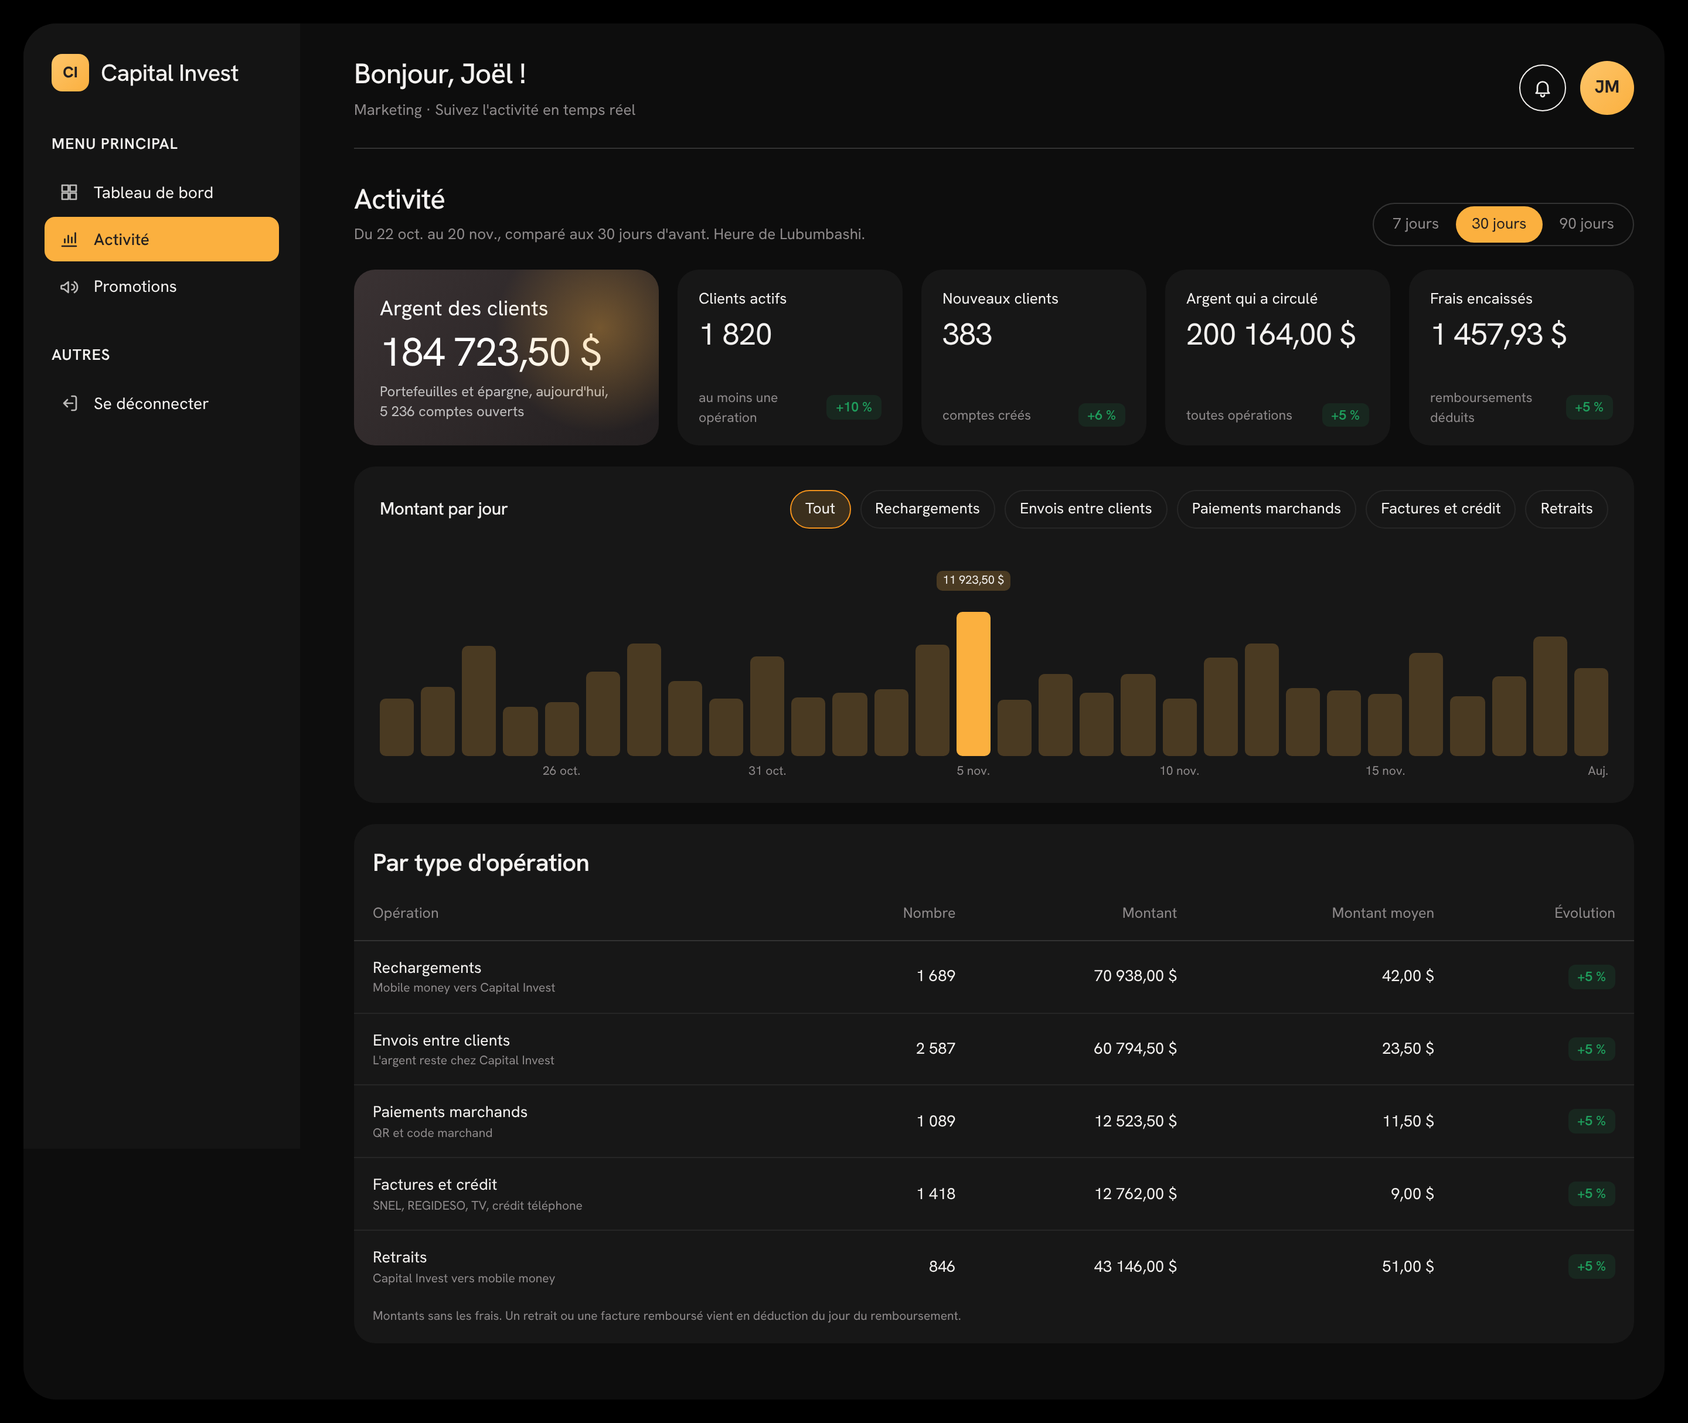
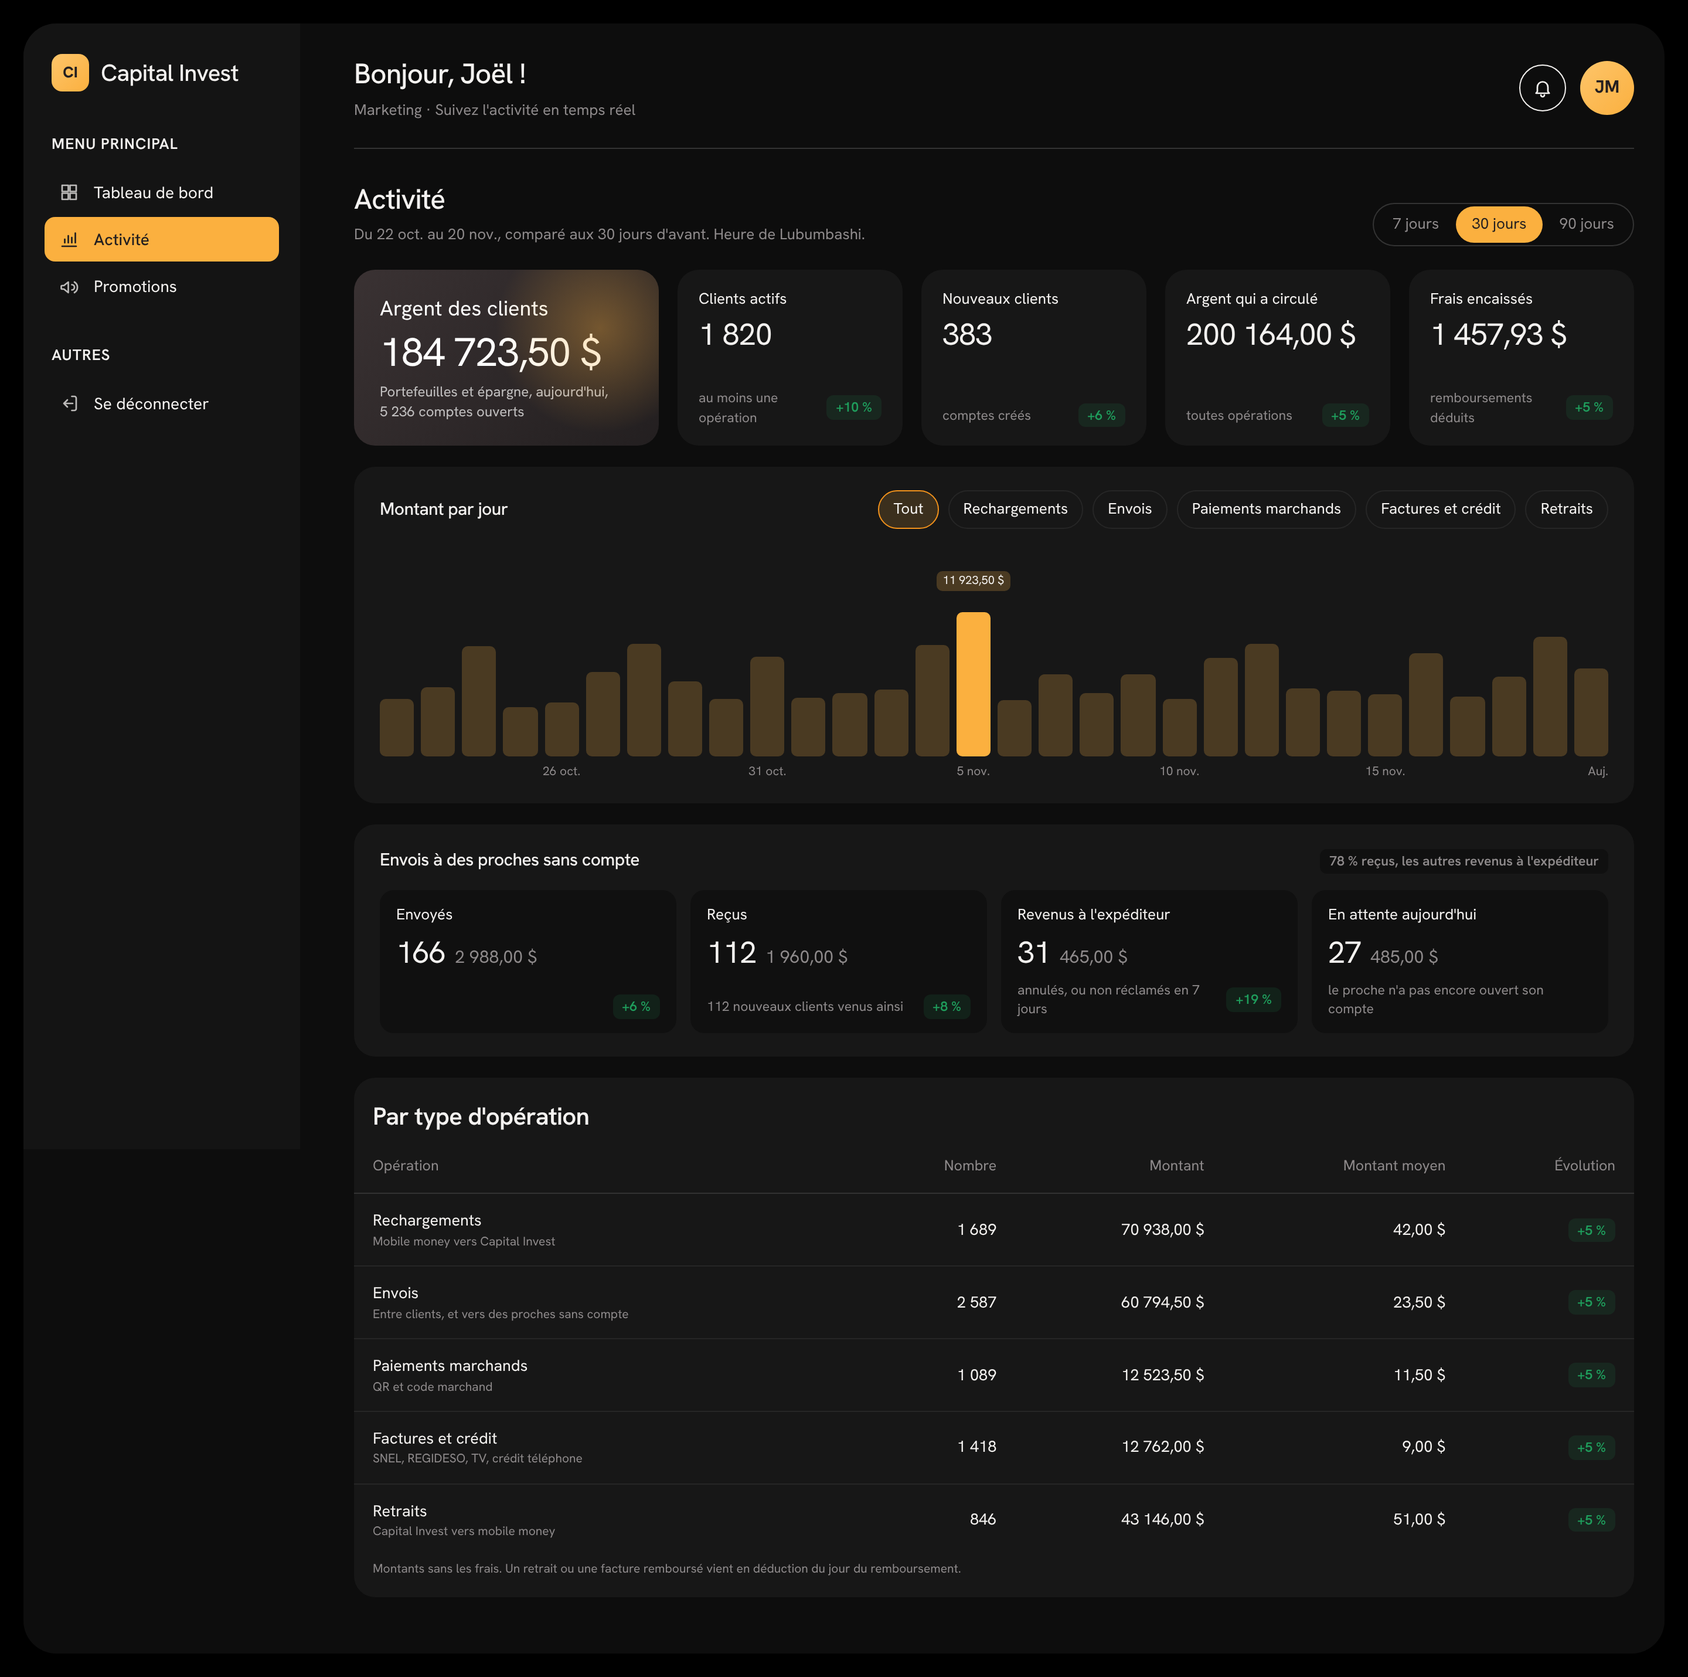
Activité : envois à des proches sans compte (envoyés, reçus, revenus, en attente)

diff --git a/backend/src/main/kotlin/cd/capitalinvest/platform/backoffice/Activity.kt b/backend/src/main/kotlin/cd/capitalinvest/platform/backoffice/Activity.kt
@@ -31,6 +31,10 @@ data class ActivityDay(
     val billsAndAirtime: Flow,
     /** Frais et commissions encaissés, remboursements de frais déduits. */
     val feesMinor: Long,
+    /** Envois à un proche sans compte : partis, reçus par le proche à l'ouverture de son compte, revenus à l'expéditeur. */
+    val invitesSent: Flow,
+    val invitesClaimed: Flow,
+    val invitesRefunded: Flow,
 )
 
 data class ActivityTotals(
@@ -42,6 +46,9 @@ data class ActivityTotals(
     val merchantPayments: Flow,
     val billsAndAirtime: Flow,
     val feesMinor: Long,
+    val invitesSent: Flow,
+    val invitesClaimed: Flow,
+    val invitesRefunded: Flow,
 )
 
 data class Activity(
@@ -54,6 +61,8 @@ data class Activity(
     /** Aujourd'hui : clients actifs (ni suspendus ni fermés), et argent qu'ils ont chez Capital Invest. */
     val customersActive: Long,
     val customerHoldingsMinor: Long,
+    /** Aujourd'hui : envois qui attendent qu'un proche ouvre son compte. */
+    val pendingInvites: Flow,
 )
 
 /**
@@ -97,6 +106,8 @@ class ActivityService(private val jdbc: JdbcClient, private val limits: LimitsPr
                    FROM ledger_entry e JOIN ledger_account a ON a.id = e.account_id
                    WHERE a.type IN ('CUSTOMER_WALLET', 'CUSTOMER_SAVINGS') AND a.currency = 'USD'""",
             ).query(Long::class.java).single(),
+            pendingInvites = jdbc.sql("SELECT count(*) AS n, COALESCE(SUM(amount_minor), 0) AS a FROM pending_transfer WHERE status = 'PENDING'")
+                .query { rs, _ -> Flow(rs.getLong("n"), rs.getLong("a")) }.single(),
         )
     }
 
@@ -131,17 +142,23 @@ class ActivityService(private val jdbc: JdbcClient, private val limits: LimitsPr
             val back = rows.filter { it.type in refunds }
             return Flow(out.sumOf { it.count }, out.sumOf(amount) - back.sumOf { it.walletIn + it.fees })
         }
+        // Montant parti du portefeuille, frais déduits.
+        val sent: (Row) -> Long = { it.walletOut - it.fees }
         return ActivityDay(
             date = d,
             newCustomers = newCustomers,
             activeCustomers = active,
             topups = flow(listOf("TOPUP"), emptyList()) { it.walletIn },
-            transfers = flow(listOf("TRANSFER"), emptyList()) { it.walletIn },
+            // Entre clients : reçu par le destinataire ; vers un proche sans compte : parti de l'expéditeur, remboursements déduits.
+            transfers = flow(listOf("TRANSFER", "TRANSFER_INVITE"), listOf("TRANSFER_INVITE_REFUND")) { if (it.type == "TRANSFER") it.walletIn else sent(it) },
             // Montant parti vers l'opérateur : débit du portefeuille moins les frais.
-            withdrawals = flow(listOf("WITHDRAWAL"), listOf("WITHDRAWAL_SETTLED", "WITHDRAWAL_REFUND")) { it.walletOut - it.fees },
+            withdrawals = flow(listOf("WITHDRAWAL"), listOf("WITHDRAWAL_SETTLED", "WITHDRAWAL_REFUND"), sent),
             merchantPayments = flow(listOf("MERCHANT_PAYMENT"), emptyList()) { it.walletOut },
-            billsAndAirtime = flow(listOf("BILL_PAYMENT", "AIRTIME"), listOf("BILL_REFUND", "AIRTIME_REFUND")) { it.walletOut - it.fees },
+            billsAndAirtime = flow(listOf("BILL_PAYMENT", "AIRTIME"), listOf("BILL_REFUND", "AIRTIME_REFUND"), sent),
             feesMinor = rows.sumOf { it.fees },
+            invitesSent = flow(listOf("TRANSFER_INVITE"), emptyList(), sent),
+            invitesClaimed = flow(listOf("TRANSFER_INVITE_CLAIM"), emptyList()) { it.walletIn },
+            invitesRefunded = flow(listOf("TRANSFER_INVITE_REFUND"), emptyList()) { it.walletIn + it.fees },
         )
     }
 
@@ -151,6 +168,7 @@ class ActivityService(private val jdbc: JdbcClient, private val limits: LimitsPr
             days.sumOf { it.newCustomers }, active,
             sum { it.topups }, sum { it.transfers }, sum { it.withdrawals }, sum { it.merchantPayments }, sum { it.billsAndAirtime },
             days.sumOf { it.feesMinor },
+            sum { it.invitesSent }, sum { it.invitesClaimed }, sum { it.invitesRefunded },
         )
     }
 }

diff --git a/backoffice/src/pages/Activity.tsx b/backoffice/src/pages/Activity.tsx
@@ -9,7 +9,7 @@ type Period = (typeof periods)[number]
 /** Les familles d'opérations, dans l'ordre où l'argent circule : il entre, il circule, il sort. */
 const families = [
   { key: 'topups', label: 'Rechargements', hint: 'Mobile money vers Capital Invest' },
-  { key: 'transfers', label: 'Envois entre clients', hint: "L'argent reste chez Capital Invest" },
+  { key: 'transfers', label: 'Envois', hint: 'Entre clients, et vers des proches sans compte' },
   { key: 'merchantPayments', label: 'Paiements marchands', hint: 'QR et code marchand' },
   { key: 'billsAndAirtime', label: 'Factures et crédit', hint: 'SNEL, REGIDESO, TV, crédit téléphone' },
   { key: 'withdrawals', label: 'Retraits', hint: 'Capital Invest vers mobile money' },
@@ -67,6 +67,7 @@ export function ActivityPage({ api }: { api: Api }) {
           <>
             <Overview data={data} />
             <Chart data={data} metric={metric} setMetric={setMetric} />
+            <Invites data={data} />
             <Families totals={data.totals} previous={data.previous} />
           </>
         )}
@@ -182,6 +183,45 @@ function Families({ totals, previous }: { totals: ActivityTotals; previous: Acti
       <p className="tiny" style={{ padding: '4px 16px 16px', margin: 0 }}>
         Montants sans les frais. Un retrait ou une facture remboursé vient en déduction du jour du remboursement.
       </p>
+    </div>
+  )
+}
+
+/** Envois à des proches sans compte : chaque envoi reçu est un client de plus, venu par un client. */
+function Invites({ data }: { data: Activity }) {
+  const t = data.totals
+  const p = data.previous
+  const settled = t.invitesClaimed.count + t.invitesRefunded.count
+  const rate = settled ? Math.round((t.invitesClaimed.count / settled) * 100) : null
+  return (
+    <section className="card pad stack" aria-label="Envois à des proches sans compte">
+      <div className="row" style={{ flexWrap: 'wrap', gap: 8 }}>
+        <h3 style={{ flex: 1, fontWeight: 500, minWidth: 200 }}>Envois à des proches sans compte</h3>
+        {rate !== null && <span className="badge off">{`${rate}\u00a0% reçus, les autres revenus à l'expéditeur`}</span>}
+      </div>
+      <div className="invites">
+        <Mini label="Envoyés" flow={t.invitesSent} before={p.invitesSent} />
+        <Mini label="Reçus" flow={t.invitesClaimed} before={p.invitesClaimed}
+          sub={`${count(t.invitesClaimed.count)} nouveau${t.invitesClaimed.count > 1 ? 'x' : ''} client${t.invitesClaimed.count > 1 ? 's' : ''} venu${t.invitesClaimed.count > 1 ? 's' : ''} ainsi`} />
+        <Mini label="Revenus à l'expéditeur" flow={t.invitesRefunded} before={p.invitesRefunded} sub="annulés, ou non réclamés en 7 jours" />
+        <Mini label="En attente aujourd'hui" flow={data.pendingInvites} sub="le proche n'a pas encore ouvert son compte" />
+      </div>
+    </section>
+  )
+}
+
+function Mini({ label, flow, before, sub }: { label: string; flow: Flow; before?: Flow; sub?: string }) {
+  return (
+    <div className="mini">
+      <div className="lbl">{label}</div>
+      <div className="row" style={{ gap: 8, alignItems: 'baseline' }}>
+        <span className="val">{count(flow.count)}</span>
+        <span className="muted">{formatUsd(flow.amountMinor)}</span>
+      </div>
+      <div className="sub">
+        <span>{sub ?? ' '}</span>
+        {before && <Change now={flow.count} before={before.count} />}
+      </div>
     </div>
   )
 }

diff --git a/backend/src/test/kotlin/cd/capitalinvest/platform/ActivityApiTest.kt b/backend/src/test/kotlin/cd/capitalinvest/platform/ActivityApiTest.kt
@@ -6,6 +6,7 @@ import com.fasterxml.jackson.databind.JsonNode
 import org.junit.jupiter.api.Test
 import org.springframework.beans.factory.annotation.Autowired
 import org.springframework.http.MediaType
+import org.springframework.test.web.servlet.delete
 import org.springframework.test.web.servlet.get
 import org.springframework.test.web.servlet.post
 import kotlin.test.assertEquals
@@ -76,5 +77,42 @@ class ActivityApiTest : ApiTest() {
             mvc.get("/v1/backoffice/activity?days=$d") { header("Authorization", "Bearer $admin") }
                 .andExpect { status { isUnprocessableEntity() }; jsonPath("$.code") { value("INVALID_PERIOD") } }
         }
+    }
+
+    private fun invite(s: Session, phone: String, amountMinor: Long, key: String) = mvc.post("/v1/transfers/pending") {
+        header("Authorization", "Bearer ${s.token}")
+        header("Idempotency-Key", key)
+        contentType = MediaType.APPLICATION_JSON
+        content = """{"toPhone":"$phone","recipientName":"Maman","amountMinor":$amountMinor,"pin":"2580"}"""
+    }.andExpect { status { isCreated() } }.body()["id"].asText()
+
+    @Test
+    fun `envois a un proche sans compte - envoyes, recus, rembourses, en attente`() {
+        val admin = agent(AgentRole.ADMIN)
+        val before = activity(admin)
+        val a = register("+243970001601")
+        topupConfirmed(a, 20_000, "inv-top")
+        invite(a, "+243970001602", 3_000, "inv-1")
+        val cancelled = invite(a, "+243970001603", 2_000, "inv-2")
+        invite(a, "+243970001604", 1_000, "inv-3")
+        mvc.delete("/v1/transfers/pending/$cancelled") { header("Authorization", "Bearer ${a.token}") }.andExpect { status { isOk() } }
+        register("+243970001602") // Le proche ouvre son compte : il reçoit les 30,00 $.
+
+        val now = activity(admin)
+        fun delta(path: String, field: String) = now["totals"][path][field].asLong() - before["totals"][path][field].asLong()
+        assertEquals(3, delta("invitesSent", "count"))
+        assertEquals(6_000, delta("invitesSent", "amountMinor"))
+        assertEquals(1, delta("invitesClaimed", "count"))
+        assertEquals(3_000, delta("invitesClaimed", "amountMinor"))
+        assertEquals(1, delta("invitesRefunded", "count"))
+        assertEquals(2_000, delta("invitesRefunded", "amountMinor"))
+        // Dans les envois : ce qui est parti, moins ce qui est revenu. La réception ne compte pas deux fois.
+        assertEquals(3, delta("transfers", "count"))
+        assertEquals(4_000, delta("transfers", "amountMinor"))
+        assertEquals(true, now["pendingInvites"]["count"].asLong() >= 1)
+        assertEquals(true, now["pendingInvites"]["amountMinor"].asLong() >= 1_000)
+        // Les frais remboursés de l'envoi annulé sont déduits.
+        val spent = 20_000L - balance(a) - 4_000
+        assertEquals(spent, now["totals"]["feesMinor"].asLong() - before["totals"]["feesMinor"].asLong())
     }
 }

diff --git a/backoffice/src/test/fakeServer.ts b/backoffice/src/test/fakeServer.ts
@@ -144,6 +144,7 @@ export class FakeServer {
     }],
   }
   requests: { method: string; path: string; body: unknown }[] = []
+  lastActivity: ReturnType<typeof fakeActivity> | null = null
   documentsViewed: string[] = []
 
   login(role: Role): string {
@@ -388,7 +389,8 @@ export class FakeServer {
     }
     if (path.startsWith('/v1/backoffice/activity')) {
       if (role('KYC_AGENT')) return problem(403, 'ACTIVITY_FORBIDDEN', 'Réservé à la direction, à la conformité et au marketing')
-      return json(fakeActivity(Number(u.searchParams.get('days') ?? 30)))
+      this.lastActivity = fakeActivity(Number(u.searchParams.get('days') ?? 30))
+      return json(this.lastActivity)
     }
     if (/^\/v1\/backoffice\/(reconciliation|topups|withdrawals|purchases|airtime|bills)/.test(path)) {
       if (path === '/v1/backoffice/purchases/review') return json(this.purchases)
@@ -485,11 +487,14 @@ export function fakeActivity(days: number, to = '2026-11-20') {
       merchantPayments: flow(40, 1_150),
       billsAndAirtime: flow(52, 900),
       feesMinor: Math.round(31 * wave) * 102 + Math.round(95 * wave) * 23,
+      invitesSent: flow(6, 1_800),
+      invitesClaimed: flow(4, 1_750),
+      invitesRefunded: flow(1, 1_500),
     }
   }
   const list = (from: number, n: number) => Array.from({ length: n }, (_, i) => day(from + n - 1 - i))
   const total = (l: ReturnType<typeof day>[], active: number) => {
-    const sum = (k: 'topups' | 'transfers' | 'withdrawals' | 'merchantPayments' | 'billsAndAirtime') => ({
+    const sum = (k: 'topups' | 'transfers' | 'withdrawals' | 'merchantPayments' | 'billsAndAirtime' | 'invitesSent' | 'invitesClaimed' | 'invitesRefunded') => ({
       count: l.reduce((s, d) => s + d[k].count, 0),
       amountMinor: l.reduce((s, d) => s + d[k].amountMinor, 0),
     })
@@ -499,6 +504,7 @@ export function fakeActivity(days: number, to = '2026-11-20') {
       topups: sum('topups'), transfers: sum('transfers'), withdrawals: sum('withdrawals'),
       merchantPayments: sum('merchantPayments'), billsAndAirtime: sum('billsAndAirtime'),
       feesMinor: l.reduce((s, d) => s + d.feesMinor, 0),
+      invitesSent: sum('invitesSent'), invitesClaimed: sum('invitesClaimed'), invitesRefunded: sum('invitesRefunded'),
     }
   }
   const current = list(0, days)
@@ -510,5 +516,6 @@ export function fakeActivity(days: number, to = '2026-11-20') {
     previous: total(list(days, days), Math.min(4_400, 240 + days * 47)),
     customersActive: 5_236,
     customerHoldingsMinor: 18_472_350,
+    pendingInvites: { count: 27, amountMinor: 48_500 },
   }
 }

diff --git a/backoffice/src/test/app.test.tsx b/backoffice/src/test/app.test.tsx
@@ -706,7 +706,7 @@ describe('activité', () => {
     expect(screen.getByText(/^Du 22 oct\. au 20 nov\., comparé aux 30 jours/)).toBeInTheDocument()
     const rows = within(screen.getByRole('table')).getAllByRole('row').slice(1)
     expect(rows.map((r) => r.querySelector('td')?.firstChild?.textContent)).toEqual([
-      'Rechargements', 'Envois entre clients', 'Paiements marchands', 'Factures et crédit', 'Retraits',
+      'Rechargements', 'Envois', 'Paiements marchands', 'Factures et crédit', 'Retraits',
     ])
     expect(screen.getByRole('img').getAttribute('aria-label')).toMatch(/^Toutes opérations, montant par jour/)
     await user.click(screen.getByRole('button', { name: 'Retraits' }))
@@ -715,6 +715,17 @@ describe('activité', () => {
     await user.click(screen.getByRole('tab', { name: '7 jours' }))
     await waitFor(() => expect(screen.getByRole('img').querySelectorAll('.bar')).toHaveLength(7))
     expect(server.requests.some((r) => r.path === '/v1/backoffice/activity')).toBe(true)
+  })
+
+  it('envois à des proches sans compte : envoyés, reçus, revenus, en attente', async () => {
+    await signIn('admin@capitalinvest.cd', 'Activité')
+    const box = within(await screen.findByRole('region', { name: 'Envois à des proches sans compte' }))
+    const data = server.lastActivity!
+    const claimed = data.totals.invitesClaimed.count
+    const rate = Math.round((claimed / (claimed + data.totals.invitesRefunded.count)) * 100)
+    expect(box.getByText(new RegExp(`^${rate}.% reçus, les autres revenus à l'expéditeur$`))).toBeInTheDocument()
+    expect(box.getByText(/^\d+ nouveaux clients venus ainsi$/)).toBeInTheDocument()
+    expect(box.getByText("En attente aujourd'hui").parentElement).toHaveTextContent(/27\s*485,00/)
   })
 
   it('évolution : hausse, baisse, stable ou nouveau', async () => {

diff --git a/backoffice/src/styles.css b/backoffice/src/styles.css
@@ -251,6 +251,12 @@ textarea { resize: vertical; min-height: 80px; }
 .activity-chart.dense { gap: 2px; }
 .activity-chart .bar { border-radius: 5px; }
 .activity-chart.dense .bar { border-radius: 2px; }
+.invites { display: grid; grid-template-columns: repeat(4, minmax(0, 1fr)); gap: 12px; }
+.invites .mini { background: var(--surface-alt); border-radius: 12px; padding: 12px 14px; display: flex; flex-direction: column; gap: 4px; }
+.invites .lbl { font-size: 13px; }
+.invites .val { font-size: 26px; letter-spacing: -0.02em; }
+.invites .sub { display: flex; justify-content: space-between; gap: 8px; align-items: center; font-size: 11.5px; color: var(--muted); margin-top: auto; }
+@media (max-width: 1100px) { .invites { grid-template-columns: repeat(2, minmax(0, 1fr)); } }
 .activity-chart .col { min-width: 0; padding-bottom: 20px; }
 .activity-chart .day { white-space: nowrap; font-size: 10.5px; position: absolute; bottom: 0; left: 50%; transform: translateX(-50%); }
 .activity-chart .col:last-child .day { left: auto; right: 0; transform: none; }

diff --git a/backoffice/src/api.ts b/backoffice/src/api.ts
@@ -419,6 +419,10 @@ export interface ActivityTotals {
   merchantPayments: Flow
   billsAndAirtime: Flow
   feesMinor: number
+  /** Envois à un proche sans compte : partis, reçus à l'ouverture du compte, revenus à l'expéditeur. */
+  invitesSent: Flow
+  invitesClaimed: Flow
+  invitesRefunded: Flow
 }
 
 export interface ActivityDay extends ActivityTotals {
@@ -433,6 +437,8 @@ export interface Activity {
   previous: ActivityTotals
   customersActive: number
   customerHoldingsMinor: number
+  /** Aujourd'hui : envois qui attendent qu'un proche ouvre son compte. */
+  pendingInvites: Flow
 }
 
 export class ApiError extends Error {

diff --git a/README.md b/README.md
@@ -540,7 +540,8 @@ Capital Invest ne transmet rien elle-même : la conformité **imprime** le dossi
 L'écran « Activité » donne à la direction, à la conformité et au marketing les chiffres de la plateforme sur 7, 30 ou 90 jours, comparés à la période précédente de même durée :
 
 - l'argent que les clients ont chez Capital Invest aujourd'hui (portefeuilles et épargne), le nombre de clients actifs et de nouveaux comptes ;
-- par type d'opération (rechargements, envois entre clients, paiements marchands, factures et crédit, retraits) : nombre, montant, montant moyen et évolution ;
+- par type d'opération (rechargements, envois, paiements marchands, factures et crédit, retraits) : nombre, montant, montant moyen et évolution. Les envois comptent ceux entre clients et ceux vers un proche sans compte, remboursements déduits ;
+- les envois à des proches sans compte : envoyés, reçus (chacun est un nouveau client venu par un client), revenus à l'expéditeur (annulés ou non réclamés en 7 jours), et ce qui attend aujourd'hui, avec la part des envois reçus ;
 - les frais encaissés, remboursements de frais déduits ;
 - un graphique du montant par jour, pour toutes les opérations ou une seule famille.
 
